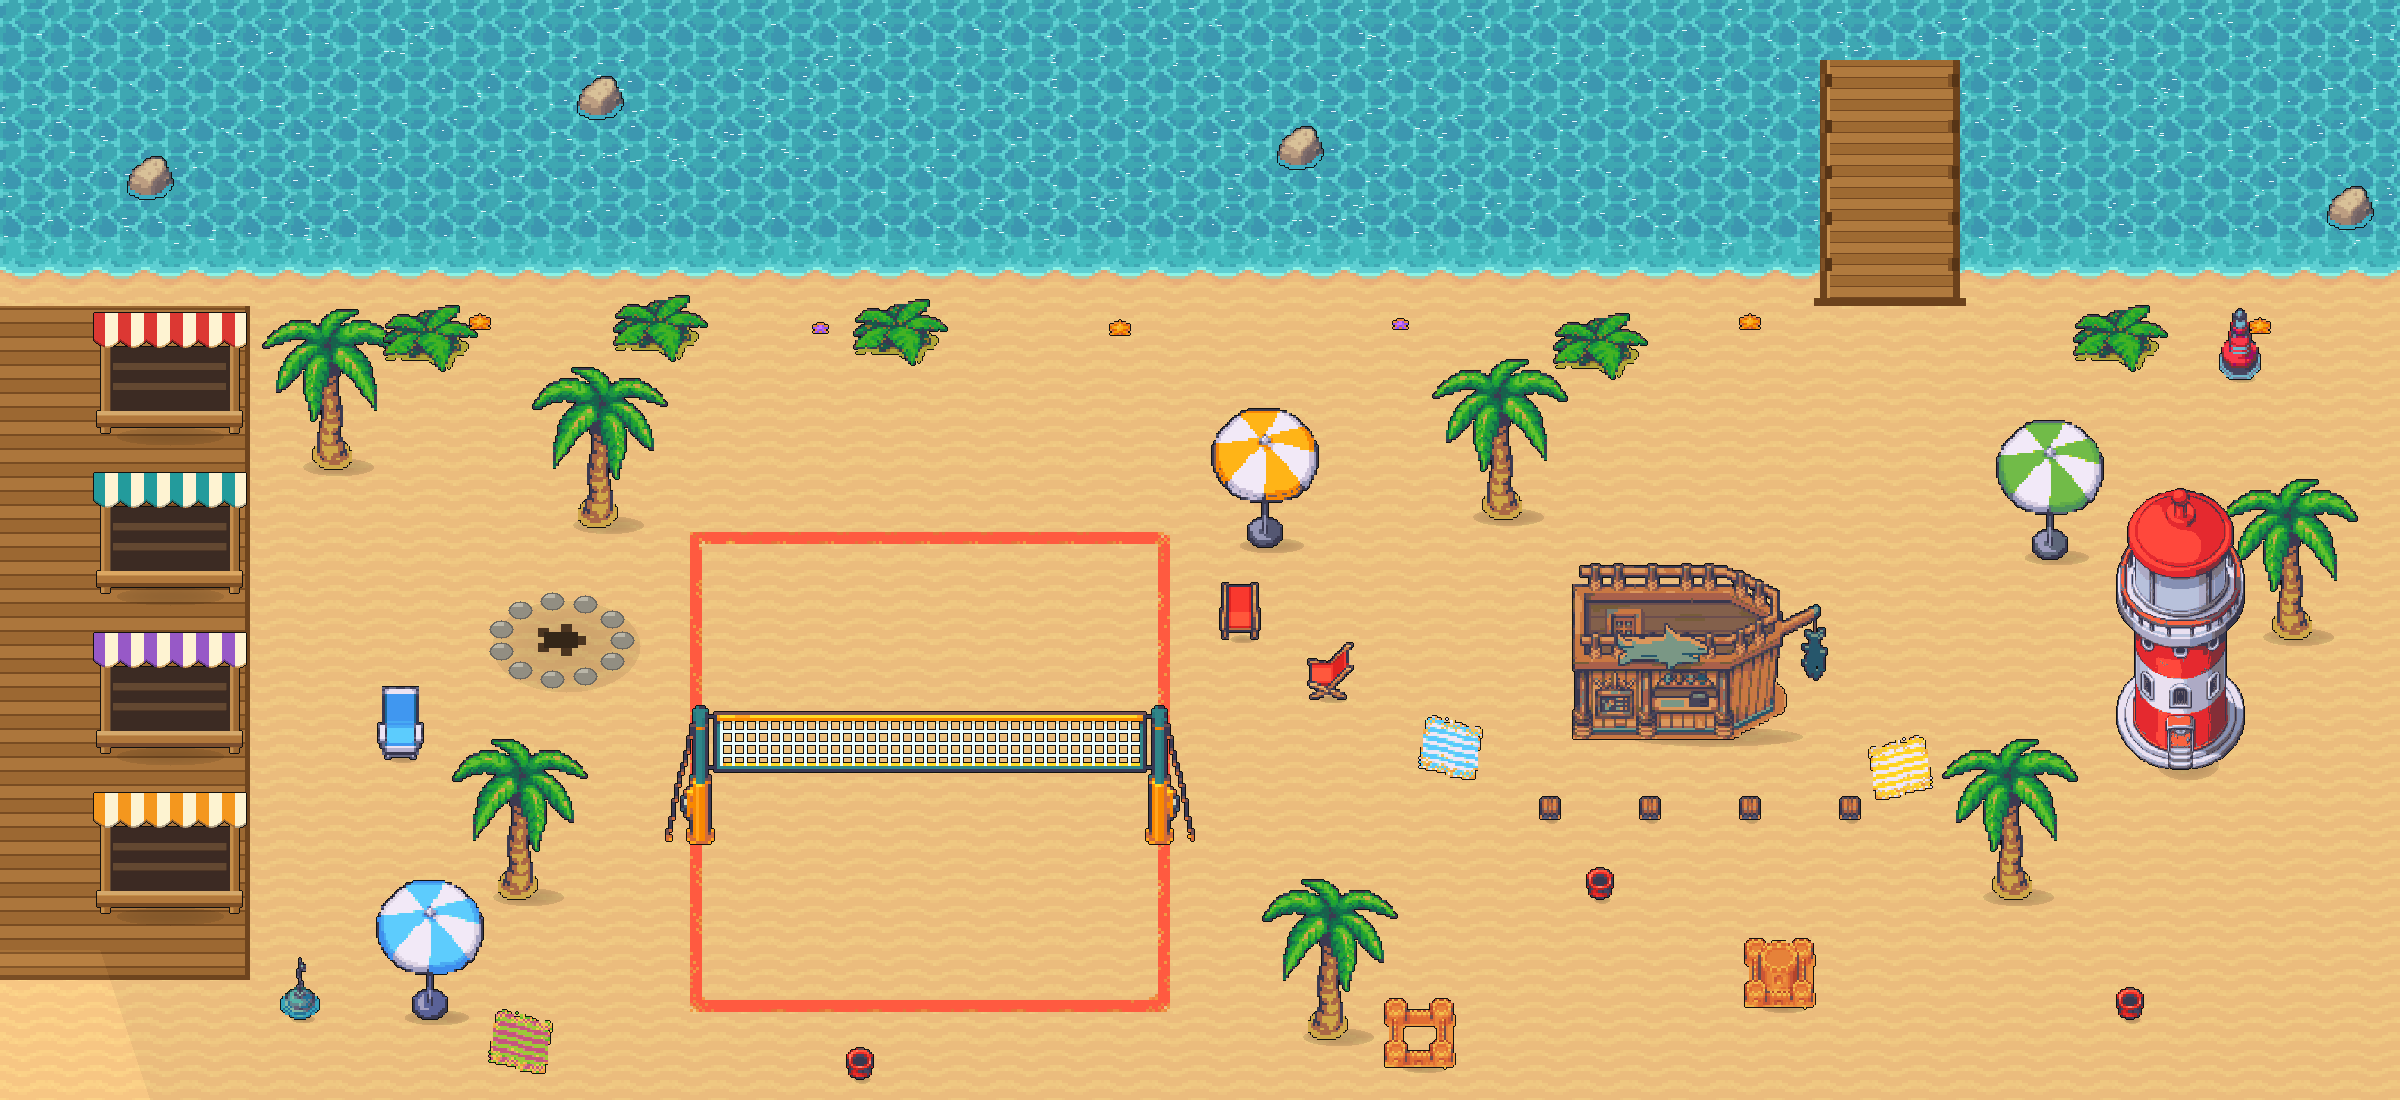
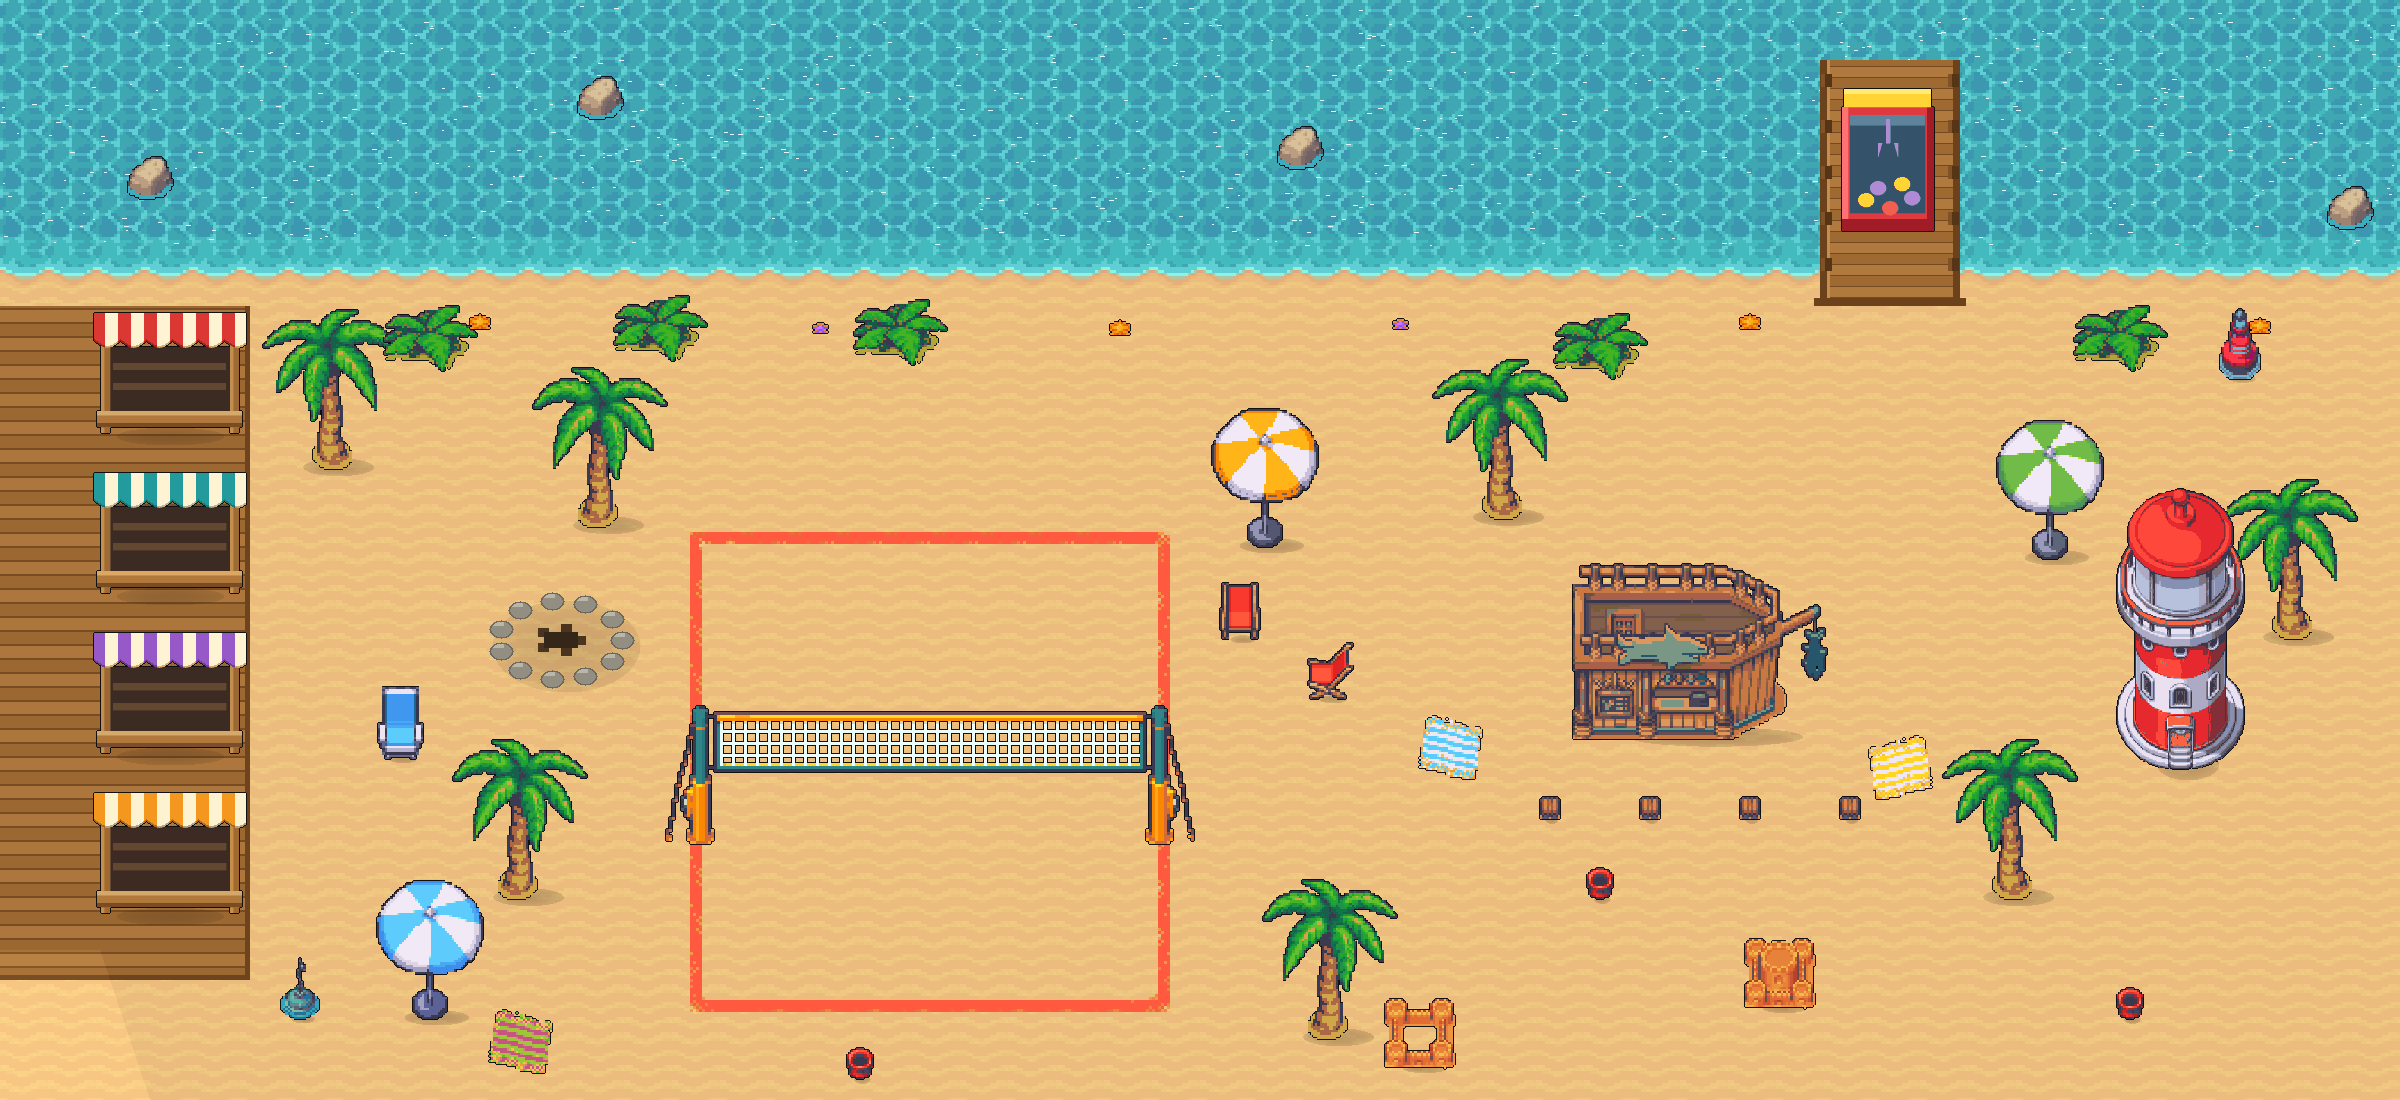
🏆🕹 The prize counter and the grabber — tickets now mean something
THE PRIZE COUNTER takes the fourth stall: six trophies from 8 to 70
tickets, owned state on the wall, prices in plain numbers. Tickets
only, never coins — these have to be won, which is the whole reason
tickets exist as a separate currency. Prizes are trophies rather than
fashion: the stand is where you choose how you look, the pier is proof
of what you did.

THE GRABBER is a drawn cabinet at the seaward end of the pier, so
reaching it is a short walk down the jetty (tapping it routes via the
pier mouth). Glass front, prizes visible behind it long before you can
afford them — that visibility is the entire reason a claw machine beat
a lottery here. The grand prize is 150 tickets, about sixty duck plays,
and you watch a progress bar fill while you save toward it.

GAMBLE SMALL, GUARANTEE BIG, and it's verified rather than asserted: at
53 tickets it refuses and shows 35%; at 253 it grabs, spends exactly
150 and awards the plush. There is no RNG anywhere in the expensive
purchase. The claw animation is theatre over a certain outcome —
nobody loses weeks of saving to a dice roll. Chance stays in the
five-coin stalls where a loss costs nothing.

One generator trap worth recording: the pier's planks are painted
straight onto the plate with rect(), so the grabber placed alongside
the other props got buried under the deck. Anything on the pier has to
be composited after the pier block.

Honest scope note: prizes are pass-stat trophies with emoji icons, not
[…]

Changed region(s): [[0.75, 0.0618, 0.8125, 0.2164]]

diff --git a/src/scripts/banana-beach.js b/src/scripts/banana-beach.js
@@ -16,7 +16,7 @@ import { seedRand } from '../lib/world.js';
 // left standing where their props used to be, one of them ON the court).
 import {
   WORLD, WATER_Y, PIER, PLATFORM, PIER_MOUTH, COURT, NET, BAR,
-  OB_RECTS, OB_CIRCLES, CHAIRS, OVERLAYS, PIER_SPRITE, STALLS,
+  OB_RECTS, OB_CIRCLES, CHAIRS, OVERLAYS, PIER_SPRITE, STALLS, GRABBER,
 } from './beach-geo.js';
 
 // ⚠️ init() is CALLED AT THE BOTTOM of this file, never here: everything it
@@ -257,6 +257,7 @@ function init() {
       playBall();
       return;
     }
+    if (tapGrabber(wx, wy)) return;   // 🕹 the landmark, out on the pier
     if (tapStall(wx, wy)) return;     // 🎡 a stall counter takes priority
     // ⛏ TAP A PATCH TO DIG IT — the same verb as tapping the ball. A dim chip
     // in the corner of the HUD was not discoverable: Trym built this with me
@@ -1075,8 +1076,24 @@ function init() {
       blurb: 'pick a duck. the number underneath is yours.' },
     { id: 'crab', name: 'Whack-a-Crab', sign: '🦀', soon: true },
     { id: 'coco', name: 'Coconut Shy', sign: '🥥', soon: true },
-    { id: 'prize', name: 'The Prize Counter', sign: '🏆', soon: true },
+    { id: 'prize', name: 'The Prize Counter', sign: '🏆' },
   ];
+  // 🏆 PRIZES ARE TROPHIES, NOT FASHION. The stand is where you choose how you
+  // look; this is where you show what you did. That distinction is the entire
+  // reason tickets exist as a separate currency — a hat you bought says
+  // nothing, a giant plush says you played the pier for weeks.
+  const PRIZES = [
+    { id: 'pinwheel', name: 'paper pinwheel', icon: '🎡', tix: 8 },
+    { id: 'goldfish', name: 'goldfish in a bag', icon: '🐠', tix: 14 },
+    { id: 'sunhat', name: 'novelty sun hat', icon: '👒', tix: 22 },
+    { id: 'ring', name: 'inflatable ring', icon: '🛟', tix: 34 },
+    { id: 'shades', name: 'holiday shades', icon: '🕶️', tix: 48 },
+    { id: 'trophy', name: 'plastic trophy', icon: '🏆', tix: 70 },
+  ];
+  // the one on the top shelf. Deliberately far away — it's the thing you keep
+  // looking at, which is what gives the whole midway a direction.
+  const GRAND = { id: 'plush', name: 'THE GIANT PLUSH BANANA', icon: '🍌', tix: 150 };
+  const ownsPrize = (id) => ((passGet().stats || {})['prize_' + id] || 0) > 0;
   // 🎟 TICKETS — deliberately NOT coins. Coins are the world's one economy and
   // the stand's 13 prices are balanced against them; tickets can only ever be
   // spent here, so midway payouts can be tuned freely without touching that.
@@ -1130,7 +1147,77 @@ function init() {
       stallFoot.innerHTML = '';
       return;
     }
-    duckRound(false);
+    if (def.id === 'prize') prizeCounter();
+    else duckRound(false);
+  }
+
+  // ---- 🏆 the prize counter -----------------------------------------------
+  function prizeCounter() {
+    const tix = ticketBal();
+    stallBody.innerHTML = '<p class="bh-stallblurb">tickets only. no coins — '
+      + 'these have to be won.</p><div class="bh-prizes">'
+      + PRIZES.map((p) => {
+        const owned = ownsPrize(p.id);
+        return '<div class="bh-prize' + (owned ? ' is-owned' : '') + '">'
+          + '<i>' + p.icon + '</i><b>' + p.name + '</b>'
+          + (owned ? '<span class="bh-got">won</span>'
+            : '<button class="bh-take" data-p="' + p.id + '"'
+              + (tix < p.tix ? ' disabled' : '') + '>🎟 ' + p.tix + '</button>')
+          + '</div>';
+      }).join('') + '</div>';
+    stallFoot.innerHTML = '<span class="bh-stallhint">the big one is in the '
+      + 'claw machine, out at the end of the pier.</span>';
+    [...stallBody.querySelectorAll('.bh-take')].forEach((b2) => {
+      b2.addEventListener('click', () => {
+        const p = PRIZES.find((q) => q.id === b2.dataset.p);
+        if (!p || ticketBal() < p.tix || ownsPrize(p.id)) return;
+        passStat('tickets_spent', p.tix);
+        passStat('prize_' + p.id, 1);
+        track('beach_prize', { prize: p.id, tickets: p.tix });
+        paintTickets();
+        prizeCounter();
+      });
+    });
+  }
+
+  // ---- 🕹 THE GRABBER ------------------------------------------------------
+  // ⭐ GAMBLE SMALL, GUARANTEE BIG. The grab is THEATRE, not chance: you save,
+  // you pay, the claw descends, and you get the thing. Never let RNG eat weeks
+  // of saving — chance belongs in the 5-coin stalls where a loss costs nothing.
+  function openGrabber() {
+    openStallIdx = 99;
+    stallName.textContent = '🕹 The Grabber';
+    paintTickets();
+    stallPanel.hidden = false;
+    history.replaceState(null, '', '#grabber');
+    track('beach_grabber_open');
+    const has = ticketBal(), own = ownsPrize(GRAND.id);
+    const pct2 = Math.min(100, Math.round(has / GRAND.tix * 100));
+    stallBody.innerHTML = '<div class="bh-glass"><div class="bh-claw"></div>'
+      + '<div class="bh-grand">' + GRAND.icon + '</div></div>'
+      + '<p class="bh-grandname">' + GRAND.name + '</p>'
+      + (own ? '<p class="bh-odds">it’s yours. it barely fits through the door.</p>'
+        : '<div class="bh-bar"><span style="width:' + pct2 + '%"></span></div>'
+          + '<p class="bh-odds">' + has + ' of ' + GRAND.tix + ' tickets · '
+          + 'no luck involved — save enough and the claw never misses</p>');
+    stallFoot.innerHTML = own ? ''
+      : '<button class="bh-btn" id="bhGrab" type="button"'
+        + (has < GRAND.tix ? ' disabled' : '') + '>'
+        + (has < GRAND.tix ? 'not enough tickets yet' : 'GRAB IT — 🎟 ' + GRAND.tix)
+        + '</button>';
+    const g = document.getElementById('bhGrab');
+    if (g) g.addEventListener('click', () => {
+      if (ticketBal() < GRAND.tix || ownsPrize(GRAND.id)) return;
+      passStat('tickets_spent', GRAND.tix);
+      passStat('prize_' + GRAND.id, 1);
+      track('beach_grabber_win');
+      stallBody.querySelector('.bh-claw').classList.add('is-grabbing');
+      stallFoot.innerHTML = '<span class="bh-stallhint">…</span>';
+      setTimeout(() => {
+        paintTickets();
+        if (openStallIdx === 99) openGrabber();
+      }, 1900);
+    });
   }
 
   // ---- 🦆 hook-a-duck ------------------------------------------------------
@@ -1192,7 +1279,27 @@ function init() {
     sign.style.zIndex = String(100 + s.y + 1);   // rides with its stall
     world.appendChild(sign);
   });
+  // the grabber's own sign, out at the end of the pier
+  (() => {
+    const sign = document.createElement('div');
+    sign.className = 'bh-stallsign';
+    sign.textContent = '🕹 The Grabber';
+    sign.style.left = pct(GRABBER.x, W);
+    sign.style.top = pct(GRABBER.y - 158, H);
+    sign.style.zIndex = String(100 + GRABBER.y + 1);
+    world.appendChild(sign);
+  })();
+
   // tapping a stall: step up to the counter, or open it if you're already there
+  function tapGrabber(wx, wy) {
+    if (Math.abs(wx - GRABBER.x) < 60 && wy > GRABBER.y - 155 && wy < GRABBER.y + 20) {
+      // you have to walk the pier to it — that's the point of putting it there
+      if (Math.hypot(pos.x - GRABBER.x, pos.y - (GRABBER.y + 60)) < 130) openGrabber();
+      else { nextTgt = { x: GRABBER.x, y: GRABBER.y + 60 }; tgt.x = PIER_MOUTH.x; tgt.y = PIER_MOUTH.y; }
+      return true;
+    }
+    return false;
+  }
   function tapStall(wx, wy) {
     const i = STALLS.findIndex((s) => Math.abs(wx - s.x) < 82
       && wy > s.y - 140 && wy < s.y + 24);

diff --git a/src/scripts/beach-geo.js b/src/scripts/beach-geo.js
@@ -76,6 +76,7 @@ export const OVERLAYS = [
   { src: 'ov-13.png', x: 91, y: 466, w: 158, h: 134, base: 600 },
   { src: 'ov-14.png', x: 91, y: 626, w: 158, h: 134, base: 760 },
   { src: 'ov-15.png', x: 91, y: 786, w: 158, h: 134, base: 920 },
+  { src: 'ov-16.png', x: 1841, y: 84, w: 94, h: 152, base: 236 },
 ];
 
 // the dock: drawn ABOVE the animated sea but BELOW anything that walks, because
@@ -90,3 +91,7 @@ export const STALLS = [
   { x: 170, y: 760 },
   { x: 170, y: 920 },
 ];
+
+// 🕹 the claw machine at the seaward end of the pier — the midway's one
+// landmark and the only place tickets buy the grand prize.
+export const GRABBER = { x: 1888, y: 236 };

diff --git a/worker-pulse/src/index.js b/worker-pulse/src/index.js
@@ -616,6 +616,8 @@ var EV_LABEL = {
   beach_chest:'took the coins from a buried chest 🧰',
   beach_stall:'stepped up to a midway stall 🎡', beach_stall_play:'paid to play a midway game 🎡',
   beach_stall_win:'won tickets on the midway 🎟',
+  beach_prize:'traded tickets for a prize 🏆', beach_grabber_open:'looked in the claw machine 🕹',
+  beach_grabber_win:'WON THE GIANT PLUSH 🍌🕹',
   beach_trade_open:'opened the trading post', beach_trade:'traded duplicates for a new shell' };
 var LENSES = ['gif_download','builder_boot','builder_start','rave_join','sticker_pdp_view',
   'checkout_redirect','begin_checkout','purchase','view_item','select_item',
@@ -704,6 +706,9 @@ var EV_EXPLAIN = {
   beach_stall:'opened a midway stall on the boardwalk 🎡 (stall = which). Three of the four are "opening soon" placards for now, so a high count on those is appetite for the next game',
   beach_stall_play:'PAID COINS to play a midway game 🎡 (cost = how many). This is the beach\'s coin SINK — the counterweight to the buried chest. Watch it against beach_chest: if plays badly trail chests, the bay is minting more than it drains',
   beach_stall_win:'won TICKETS on the midway 🎟 (tickets = how many). ⚠️ Tickets are NOT coins and can never reach the stand — that separation is what lets midway payouts be tuned freely',
+  beach_prize:'spent tickets at the prize counter 🏆 (prize = which, tickets = cost). Prizes are TROPHIES, not fashion — the stand is what you choose to look like, the pier is proof of what you did',
+  beach_grabber_open:'walked the pier and looked in the claw machine 🕹. High opens with few wins = the grand prize is doing its job as a thing you keep looking at',
+  beach_grabber_win:'🍌🕹 WON THE GIANT PLUSH — 150 tickets, roughly 60 duck plays. ⚠️ GUARANTEED, never RNG: gamble small, guarantee big. Nobody should lose weeks of saving to a dice roll',
   beach_dig:'dug a hole in a sand patch ⛏ — find = junk / shell / curio / bottle / TREASURE. Most digs are "just sand", by design: the patch is an area to search, not a prize. Five patches a night, date-seeded, and exactly one treasure — a run of finds without a treasure means they never found the map at the bar',
   beach_chest:'dug up the day\'s buried chest and TOOK the coins 🧰 (coins = how many). ⚠️ The only coin source outside the rave: one chest a day, hard-capped at 20, date-seeded, ~30% empty — a bounded bonus, not a second faucet. If this number ever climbs, something has broken the cap and the stand\'s prices are being devalued',
   beach_sandy:'walked onto the volleyball court and Sandy greeted them 🏐 — the solo rally partner. He returns everything on purpose, so a long rally is THEIR consistency, not his luck. Fires once per visit to the court (resets when they wander off)',

diff --git a/tools/build-beach-scene.py b/tools/build-beach-scene.py
@@ -296,6 +296,39 @@ def build_stall(hue):
                     warm=0.05, trim=False)
 
 
+def build_grabber():
+    """🕹 THE GRABBER — the midway's one landmark, at the seaward end of the
+    pier so reaching it is a small pilgrimage. Glass cabinet, prizes you can
+    SEE before you can afford them (the whole reason it beat a lottery), and a
+    claw parked over them."""
+    K = 3
+    w, h = 92 * K, 150 * K
+    s = Image.new('RGBA', (w, h), (0, 0, 0, 0))
+    d = ImageDraw.Draw(s)
+    BODY, LIT, DRK = (208, 66, 72), (238, 118, 120), (150, 38, 48)
+    d.rectangle([0, 22 * K, w, h - 4 * K], fill=BODY)          # cabinet
+    d.rectangle([0, 22 * K, 6 * K, h - 4 * K], fill=LIT)
+    d.rectangle([w - 7 * K, 22 * K, w, h - 4 * K], fill=DRK)
+    d.rectangle([0, h - 16 * K, w, h - 4 * K], fill=DRK)       # plinth
+    d.rectangle([2 * K, 4 * K, w - 3 * K, 22 * K], fill=(252, 206, 70))   # marquee
+    d.rectangle([2 * K, 4 * K, w - 3 * K, 9 * K], fill=(255, 232, 138))
+    # the glass, and the prizes behind it
+    d.rectangle([8 * K, 30 * K, w - 9 * K, h - 22 * K], fill=(58, 84, 104))
+    for i, (px_, py_, c) in enumerate([
+            (16, 108, (250, 206, 62)), (40, 116, (232, 96, 96)),
+            (62, 106, (120, 190, 232)), (28, 96, (168, 128, 220)),
+            (52, 92, (250, 206, 62))]):
+        d.ellipse([px_ * K, py_ * K, (px_ + 16) * K, (py_ + 14) * K], fill=c)
+    d.rectangle([8 * K, 30 * K, w - 9 * K, 40 * K], fill=(96, 130, 152))  # glare
+    # the claw, parked
+    d.rectangle([44 * K, 34 * K, 48 * K, 58 * K], fill=(198, 198, 206))
+    for dx in (-10, 6):
+        d.polygon([((46 + dx) * K, 58 * K), ((46 + dx + 4) * K, 58 * K),
+                   ((46 + dx + (0 if dx < 0 else 4)) * K, 72 * K)], fill=(170, 170, 182))
+    return blockify(s, factor=K, colors=14, alpha_thresh=0.4, sat=1.1, con=1.06,
+                    warm=0.04, trim=False)
+
+
 # ---- the object layer: pack art at NATIVE scale ---------------------------
 _cache = {}
 PLACED = []                  # every prop's footprint, for audit_court()
@@ -304,6 +337,7 @@ NET_SPRITE = []              # [x, y, w, h] of net.png in world coords
 OVERLAYS = []                # (file, x, y, w, h, base) — y-sorted prop layer
 PIER_SPRITE = []             # [x, y, w, h] of pier.png — a floor above the sea
 STALLS = []                  # (cx, base) of each midway stall, emitted for the page
+GRABBER = []                 # [cx, base] of the claw machine on the pier
 
 
 
@@ -452,6 +486,10 @@ export const PIER_SPRITE = { x: %d, y: %d, w: %d, h: %d };
 export const STALLS = [
 %s
 ];
+
+// 🕹 the claw machine at the seaward end of the pier — the midway's one
+// landmark and the only place tickets buy the grand prize.
+export const GRABBER = { x: %d, y: %d };
 ''' % (W, H, WATER_LINE,
        px0, px1, py0,
        px0, px1, py0, PLATFORM_BOT,
@@ -469,7 +507,8 @@ export const STALLS = [
        '\n'.join("  { src: '%s', x: %d, y: %d, w: %d, h: %d, base: %d },"
                  % o for o in OVERLAYS),
        PIER_SPRITE[0], PIER_SPRITE[1], PIER_SPRITE[2], PIER_SPRITE[3],
-       '\n'.join('  { x: %d, y: %d },' % s for s in STALLS))
+       '\n'.join('  { x: %d, y: %d },' % s for s in STALLS),
+       GRABBER[0], GRABBER[1])
     p = os.path.join(SITE, 'src', 'scripts', 'beach-geo.js')
     with open(p, 'w', encoding='utf-8') as f:
         f.write(out)
@@ -644,6 +683,7 @@ if HAVE_PACK:
         OVERLAYS.append((fn, box[0], box[1], st.width, st.height, int(base)))
         STALLS.append((cx, int(base)))
     print('  wrote %d midway stalls' % len(STALL_HUES))
+
     audit_court()
 
     # 🛟 THE PIER — it used to be a featureless brown slab and read as a
@@ -673,6 +713,20 @@ if HAVE_PACK:
     # a dock is a FLOOR, not a wall — it must never occlude a banana standing
     # on it. Cropped off the finished plate, so the water it carries at its
     # edges is identical to what sits underneath.
+    # 🕹 THE GRABBER, at the SEAWARD end of the pier — the midway's landmark,
+    # so reaching it is a small pilgrimage down the jetty.
+    # ⚠️ MUST be placed AFTER the pier is drawn: the deck's planks are painted
+    # with rect() straight onto the plate, so a grabber placed with the other
+    # props got buried under them.
+    gr = build_grabber()
+    GRABBER.extend([1888, 236])
+    gbox = (GRABBER[0] - gr.width // 2, GRABBER[1] - gr.height)
+    im.alpha_composite(gr, gbox)
+    PLACED.append(('grabber', (gbox[0], gbox[1], gbox[0] + gr.width, GRABBER[1])))
+    _gfn = 'ov-%d.png' % len(OVERLAYS)
+    gr.save(os.path.join(OUT, _gfn), optimize=True)
+    OVERLAYS.append((_gfn, gbox[0], gbox[1], gr.width, gr.height, GRABBER[1]))
+    print('  wrote the grabber')
     PIER_SPRITE.extend([px0 - 8, py0, (px1 + 8) - (px0 - 8), (py1 + 12) - py0])
     im.crop((px0 - 8, py0, px1 + 8, py1 + 12)).save(
         os.path.join(OUT, 'pier.png'), optimize=True)